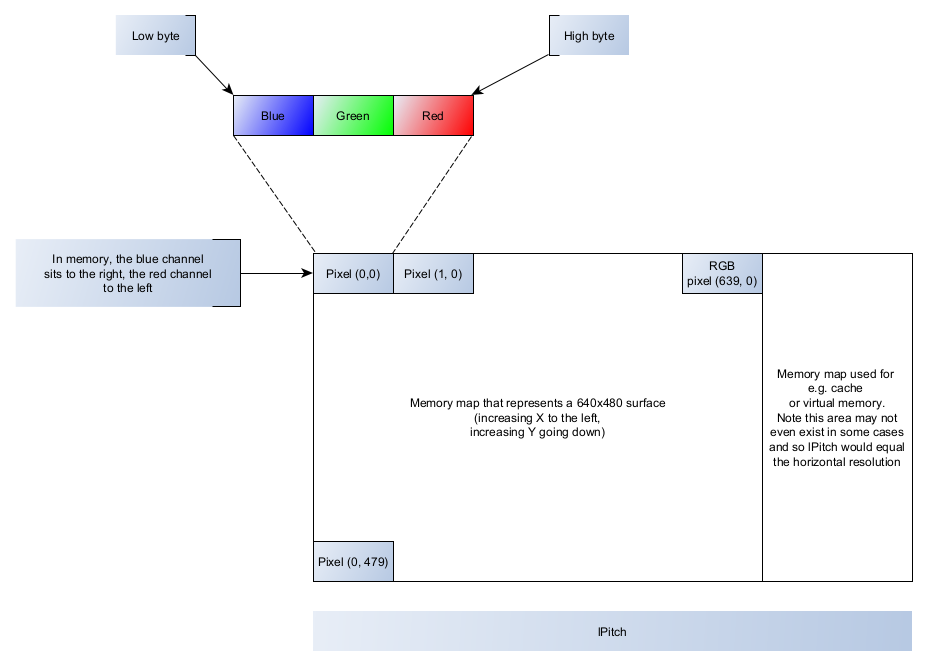
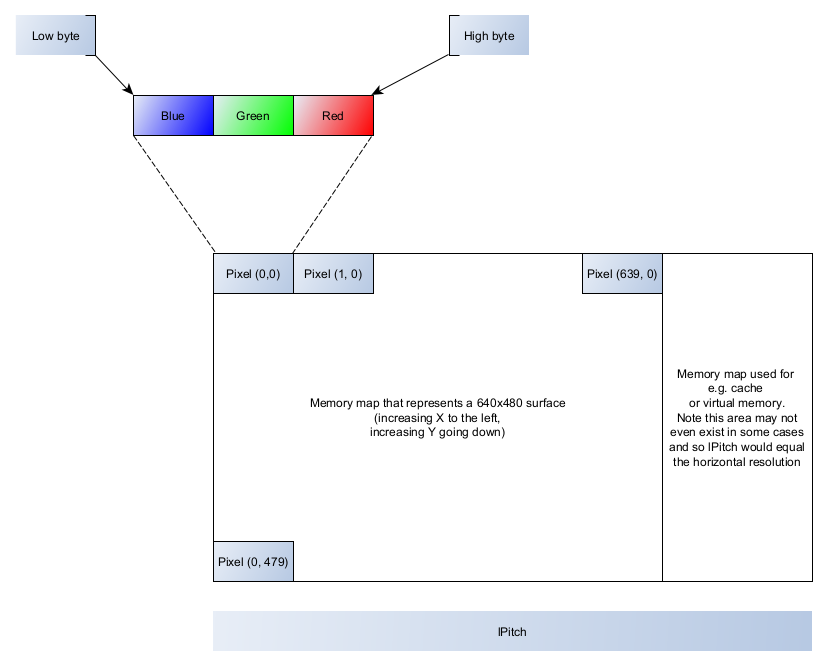
corrections and clarity

diff --git a/ProgrammingC++/10_DirectDrawGraphicsPart1.md b/ProgrammingC++/10_DirectDrawGraphicsPart1.md
@@ -240,7 +240,7 @@ In short, one allocates a portion of memory for the offscreen area with the same
 
 Copying the data is somewhat involved, in that the memory stride (pitch) of the primary surface determines which C++ operations are required.
 
-If the stride equals the horizontal resolution (i.e. there are no extraneous elements to the memory row) then one can call e.g.:
+If the stride equals the horizontal resolution (i.e. there are no extraneous elements to the memory row) then one can call `memcpy()` e.g.:
 
 ```cpp
 // UCHAR is an unsigned 8-bit int
@@ -256,9 +256,17 @@ UCHAR * doubleBuffer = new UCHAR[640*480];
 memcpy((void *) primaryBuffer, (void *) doubleBuffer, 640*480); 
 ```
 
-If the stride is greater than the horizontal resolution, then one needs to skip the extraneous elements with an iterative approach:
+If the stride is greater than the horizontal resolution, then one needs to skip the extraneous elements by advancing a pointer:
 
 ```cpp
+// UCHAR is an unsigned 8-bit int
+UCHAR * primaryBuffer;
+// ...assume the primary buffer is already initialised
+
+UCHAR * doubleBuffer = new UCHAR[640*480];
+// ...assume the double buffer is filled later...
+// e.g. doubleBuffer[x + (640*y)] = someColour
+
 for (int y = 0; y < 480; y++){
 	
 	// copy the first 640 bytes (each pixel is one byte or 8-bits)

diff --git a/ProgrammingC++/9_DirectDraw.md b/ProgrammingC++/9_DirectDraw.md
@@ -634,6 +634,8 @@ if (FAILED(lpddsprimary->SetPalette(lpddpal))){
 
 As mentioned previously, video memory abstracts a surface by mapping a location on the surface to a specific area in memory. The surface origin is positioned at the top-left, and in terms of memory location is also represented by the top-left memory location. Each row (left to right, top to bottom) then falls somewhere below and to the right of the origin.
 
+![](./MSVC2005/video_buffer.png)
+
 Video memory is not always uniformly distributed, so simply assuming one can plot a pixel by memory, at the mth row and nth point along the row cannot be applied. For such cases, DirectX provides another abstraction, the _memory pitch_ (per line) which determines number of bytes between each row. Then determining the pixel position for the mth row (x) at the nth position (to the right, y) is given by:
 
 ```cpp
@@ -643,6 +645,8 @@ UCHAR *videoBuffer8bit;
 // somePixelColour8 is UCHAR
 videoBuffer8bit[x + (y*memoryPitch8bit)] = somePixelColour6;
 ```
+
+As shown by the above snippet, the video buffer is an array `x by y` elements for each pixel. Knowing the pitch allows one to traverse between surface lines.
 
 8-bits is one byte, so each pixel in 8-bit mode requires one byte. For 16-bit mode, an adjustment is needed:
 
